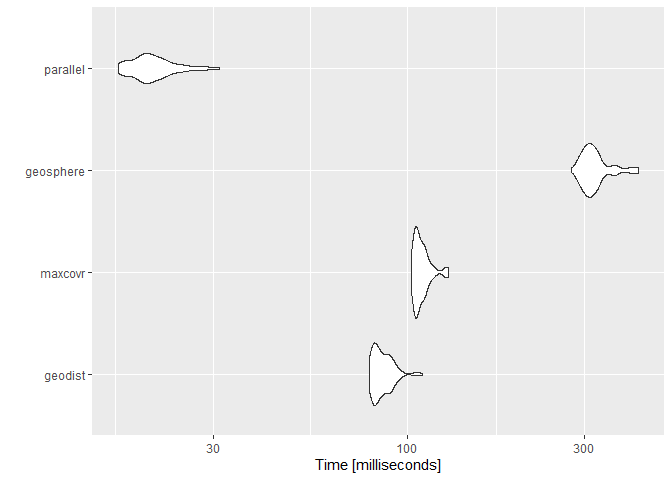
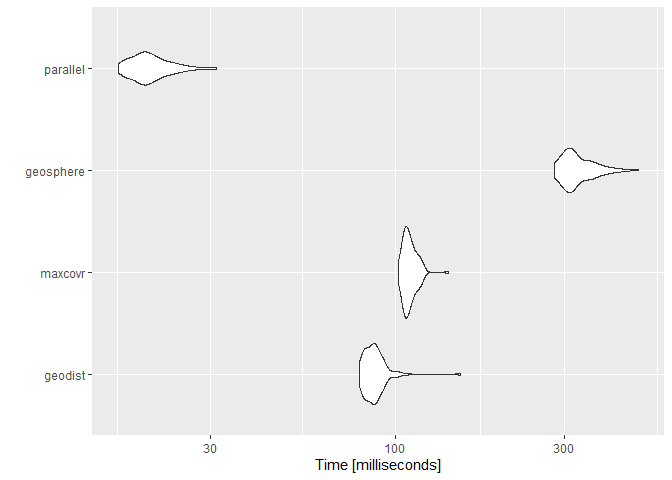
fix row numbers

diff --git a/pargeodist.cpp b/pargeodist.cpp
@@ -150,7 +150,7 @@ struct facilityMatrix : public Worker {
     for (std::size_t i = begin; i < end; i++) {
       for (std::size_t j = 0; j < y.nrow(); j++) {
         // row number
-        rmat(i,0) = j + 1;
+        rmat(i,0) = 0;
 
         //dist = dist_haversine(x(i, 0), x(i, 1), y(j, 0), y(j, 1));
         dist = dist_haversine(x(i, 0), x(i, 1), y(j, 0), y(j, 1));
@@ -191,6 +191,8 @@ NumericMatrix rcpp_parallel_nearest_facility(NumericMatrix x, NumericMatrix y) {
   facilityMatrix my_distance_matrix(x, y, rmat);
 
   parallelFor(0, rmat.nrow(), my_distance_matrix, 1);
-
+  for (int i = 0; i < 50; i++) {
+    rmat(i, 0) = i + 1;
+  }
   return rmat;
 }

diff --git a/README.md b/README.md
@@ -54,11 +54,11 @@ mb1 <-
 
 mb1
 #> Unit: milliseconds
-#>       expr      min        lq      mean   median        uq      max neval
-#>    geodist  79.1307  81.32285  85.91390  84.7408  89.52365 110.0912   100
-#>    maxcovr 102.3519 105.18415 109.33866 107.4032 111.31085 128.8871   100
-#>  geosphere 276.3577 301.71860 320.56993 312.8268 325.98920 419.1602   100
-#>   parallel  16.6982  18.95315  20.77203  20.1964  21.94405  31.1643   100
+#>       expr      min        lq      mean    median        uq      max neval
+#>    geodist  79.0137  82.84275  87.60120  86.63815  90.22125 152.8196   100
+#>    maxcovr 102.2116 106.17070 109.84409 108.56470 112.70545 140.7336   100
+#>  geosphere 280.9771 303.76480 328.95195 316.30955 349.29010 484.9457   100
+#>   parallel  16.5326  18.70390  20.51562  19.97405  21.81205  31.2495   100
 #>   cld
 #>   b  
 #>    c 
@@ -94,12 +94,12 @@ head(maxcovr::nearest_facility_dist(y, x))
 # end up being the same
 head(rcpp_parallel_nearest_facility(x, y))
 #>      [,1] [,2]      [,3]
-#> [1,]   50    2  11356.34
-#> [2,]   50    6  42026.72
-#> [3,]   50   50 183882.49
-#> [4,]   50    4  79926.93
-#> [5,]   50   37 192083.93
-#> [6,]   50   35 121297.81
+#> [1,]    1    2  11356.34
+#> [2,]    2    6  42026.72
+#> [3,]    3   50 183882.49
+#> [4,]    4    4  79926.93
+#> [5,]    5   37 192083.93
+#> [6,]    6   35 121297.81
 
 mb2 <- microbenchmark::microbenchmark(
   maxcovr = maxcovr::nearest_facility_dist(y, x),
@@ -108,14 +108,15 @@ mb2 <- microbenchmark::microbenchmark(
 
 mb2
 #> Unit: milliseconds
-#>      expr       min        lq      mean    median        uq     max neval
-#>   maxcovr 52.345701 53.503301 56.101099 55.111202 58.468601 68.0661   100
-#>  parallel  7.829202  8.943952  9.474358  9.185751  9.529701 15.3292   100
-#>  cld
-#>    b
-#>   a
+#>      expr       min        lq     mean  median      uq     max neval cld
+#>   maxcovr 52.480901 54.401651 58.44284 56.9394 60.2562 87.6191   100   b
+#>  parallel  7.945101  8.953001 10.50214  9.7805 11.2249 28.2851   100  a
 
-autoplot(mb2)
+autoplot
+#> function (object, ...) 
+#> {
+#>     UseMethod("autoplot")
+#> }
+#> <bytecode: 0x0000000019cc4158>
+#> <environment: namespace:ggplot2>
 ```
-
-![](README_files/figure-gfm/nearest_facility_compare-1.png)<!-- -->
